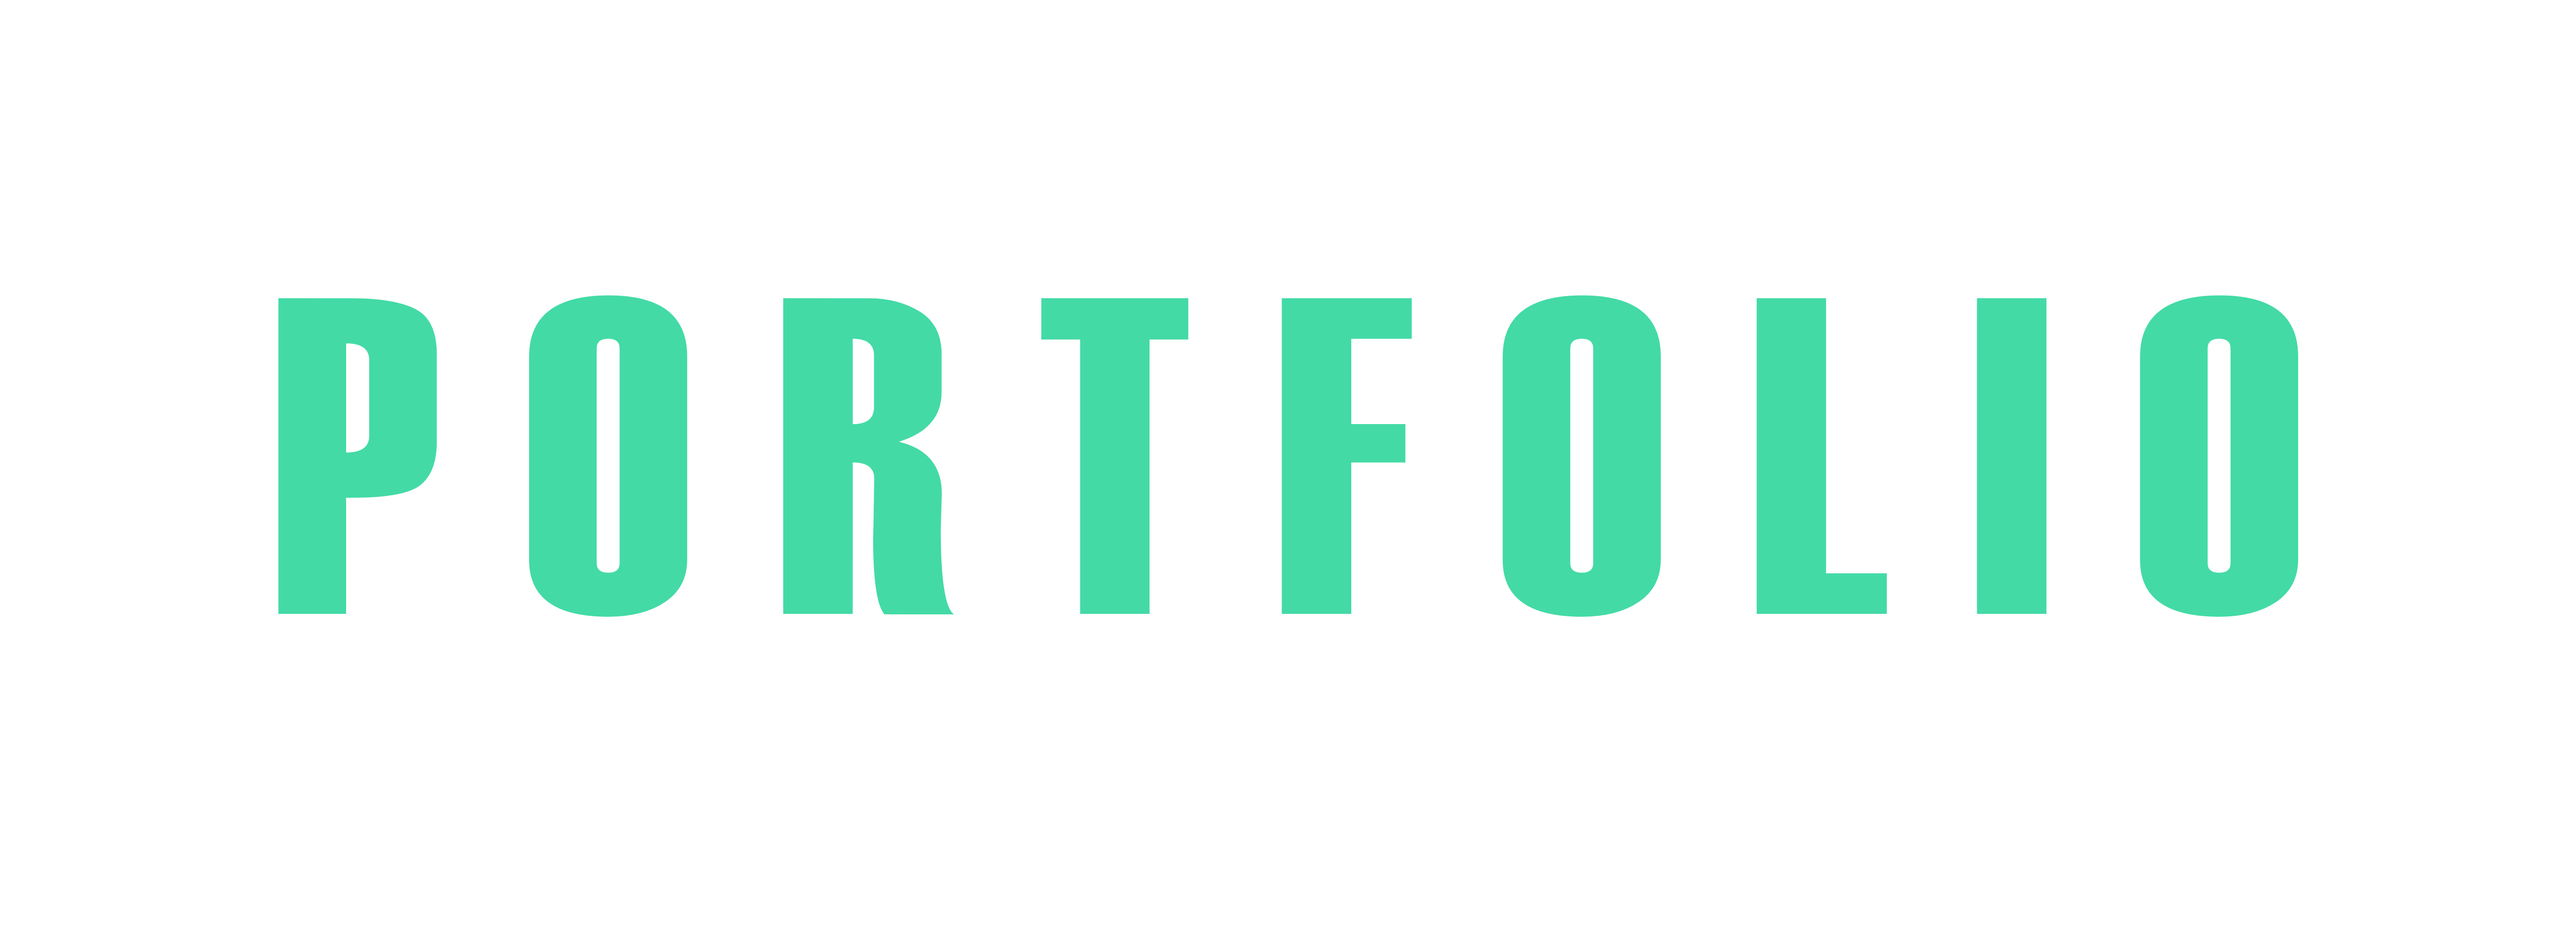
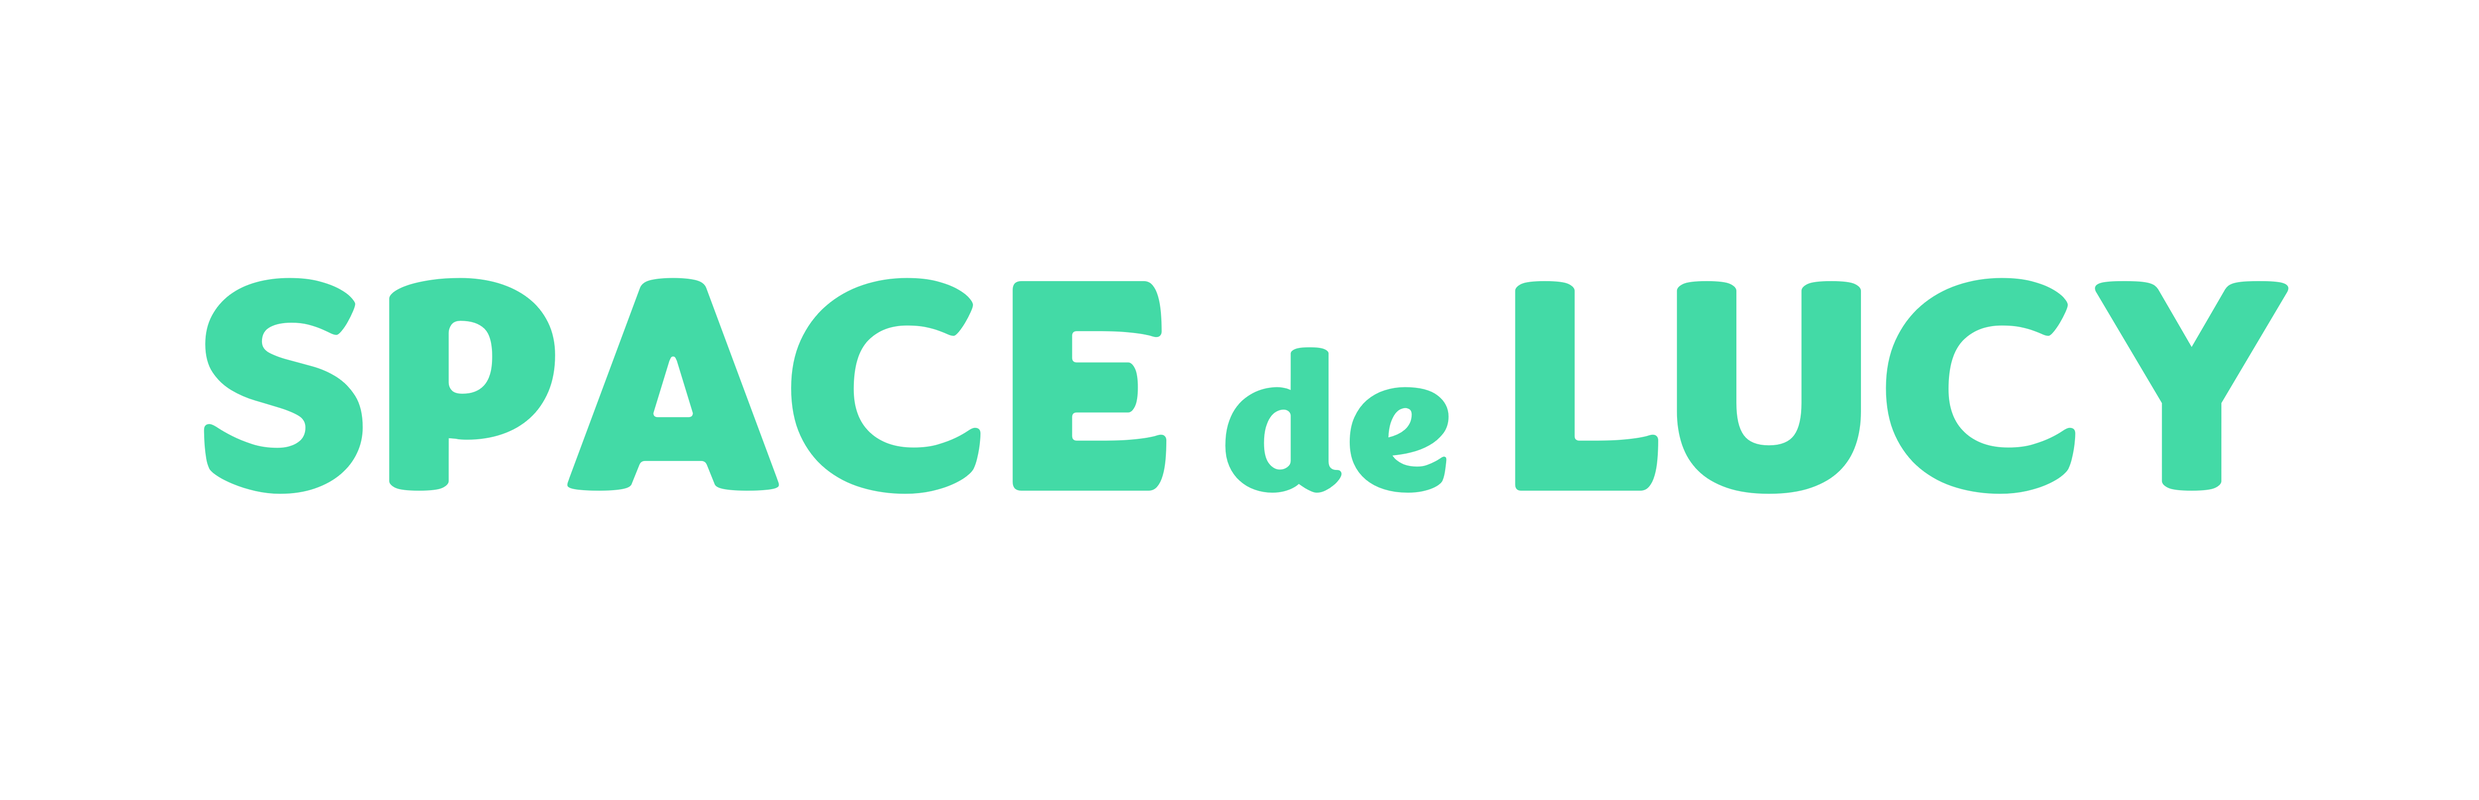
dd

Changed region(s): [[0.0622, 0.3088, 0.9334, 0.6485]]

diff --git a/docs/index.md b/docs/index.md
@@ -1,13 +1,75 @@
 ---
 layout: main
-title: 소개
+title: About
 nav_order: 1
-description: "Introduction About ZipPlan"
+description: "Introduction"
 permalink: /
+<<<<<<< Updated upstream
 author : ZipPlan
 date : 22/12/30
+=======
+author : Lucy
+date : 22.12.30
+>>>>>>> Stashed changes
 priority: 1.0
 ---
 
-안녕하세요. ZipPlan 입니다. 
+안녕하세요. SCM 및 무역 전문가를 목표로 하고 있는 루시라고 합니다. :) 
+Hello! My name is Lucy and I am making progress everyday to become professional in supply chain and international trade. 
+
+저의 이력이 궁금하시다면 여기를 클릭해주세요. 
+
+> - Experience in the luxury and airline industry
+> - Master of International Trade / Bachelor of Business Administration
+> - Native Korean / Fluent English speaker (3 yrs overseas experience in the United States)
+> - Excellent in organizing data and building reports
+> - Fast and proactive learner & Strong team player
+
+# PROFESSIONAL EXPERIENCE
+TOTAL Experience: 5 years
+## Sales Support Specialist, Planning Team
+
+**Luxottica Korea**, Seoul (2022.07 - Present)
+
+- Sample management (import, export, inventory, audit, etc.)
+- Assortment management (discontinue, limited edition, etc.)
+- Lead HQ project for local implementation
+- Support logistic and compliance issues
+- Support local sales events and promotions
+## Planning & Operation Specialist, Planning Team
+
+**Luxottica Korea**, Seoul (2019.07 - 2022.07)
+
+- Overall sales support for overseas sales (Philippines market)
+- Manage sales orders in ERP SAP system
+- Distributor/Key account management and daily communication
+- Sales event planning and support
+- Sales and demand forecast
+- Manage and maintain files covering invoices, and other supporting documents
+- Gather and organize data to assist management in making key decisions
+
+## Merchandising & Purchasing Specialist, Purchasing Team
+
+**Jeju Air**, Seoul (2014.09 - 2016.03)
+
+- Merchandising and purchasing for in-flight sales
+- Worked with team to find and launch new products
+- Manage vendors and purchasing conditions
+- Manage all purchasing data in ERP SAP and documentation for all purchases
+
+# 📚 STUDY
+## Dongguk University, Business Administration, Bachelor’s Degree
+*2011.03 - 2015.02*
+## Yonsei Graduate School of International Studies, *International Trade, Finance & Management, Master’s Degree*
+*2016.03 - 2018.02*
+
+#  SKILLS
+## COMPUTER
+- Excel, Power point, Access
+- ERP SAP : SD (3.5 years), MM module (1.5 years)
+## LANGUAGE
+- Korean : Native
+- English : Fluent 
+
+## CERTIFICATION
 
